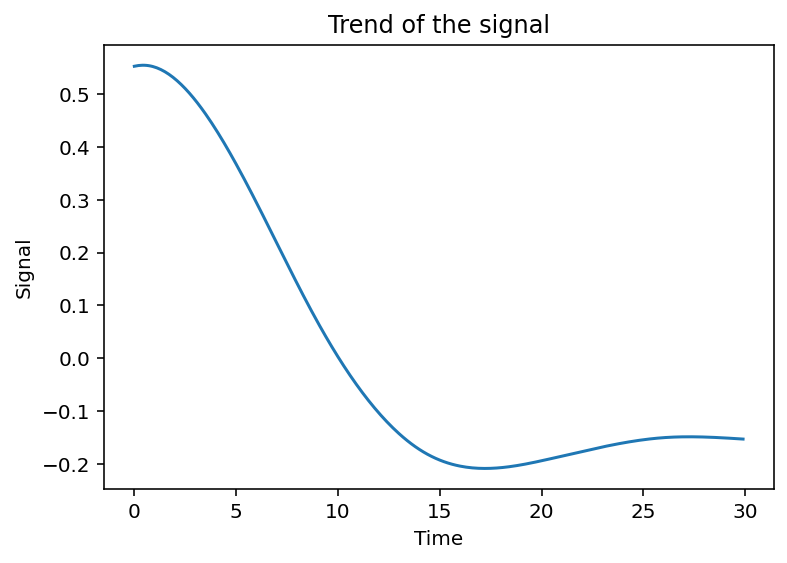
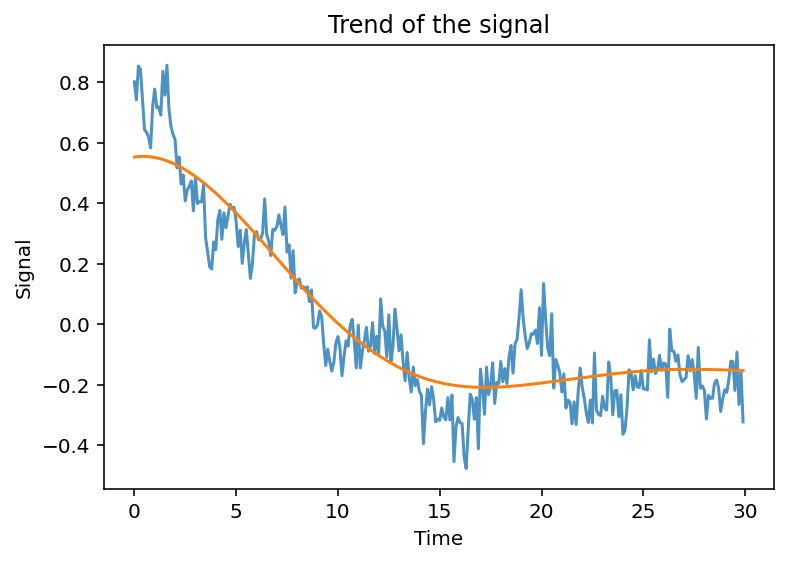
Small changes in plot and example plots

diff --git a/scope/utils/plot.py b/scope/utils/plot.py
@@ -68,7 +68,7 @@ def plot_fft_spectrum(fit_fft):
     plt.show()
 
 
-def plot_signal(t, x, title='Input signal'):
+def plot_signal(t, x, title='Input signal', ax=None):
     """
     Plots the input signal over time.
 
@@ -78,6 +78,10 @@ def plot_signal(t, x, title='Input signal'):
         Time values for the signal, used as the x-axis in the plot.
     x : numpy array
         Signal values corresponding to each time point in `t`, used as the y-axis in the plot.
+    title : string
+        Tittle of the plot
+    ax : matplotlib.axes.Axes
+        Axis to alight the plot with other plots
 
     Returns
     -------
@@ -91,7 +95,10 @@ def plot_signal(t, x, title='Input signal'):
     The x-axis represents time, and the y-axis represents the signal magnitude.
 
     """
-    plt.plot(t, x)
+    if ax is None:
+        fig, ax = plt.subplots(1)
+        
+    ax.plot(t, x)
     plt.xlabel('Time')
     plt.ylabel('Signal')
     plt.title(title)
@@ -221,6 +228,10 @@ def plot_emd_spectrum(emd_sp, cutoff_period, conf_period=None, conf_up=None,
             plt.plot(conf_period, conf_up, color='red', label=label)
 
             # get upper boundaries for the periods of the EMD modes found
+            
+            if (emd_sp['period'][0] < conf_period[0]):
+                conf_period[0] = emd_sp['period'][0] 
+            
             f = interp1d(conf_period, conf_up)
             upper_bounds = f(emd_sp['period'])
             mask = emd_sp['energy'] > upper_bounds
